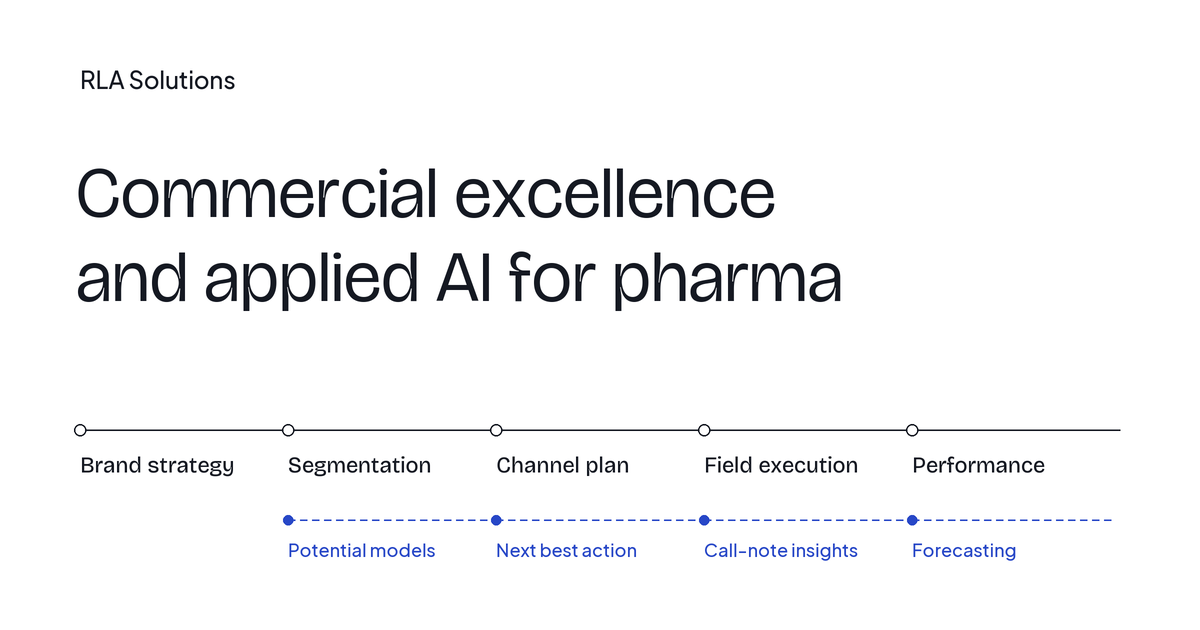
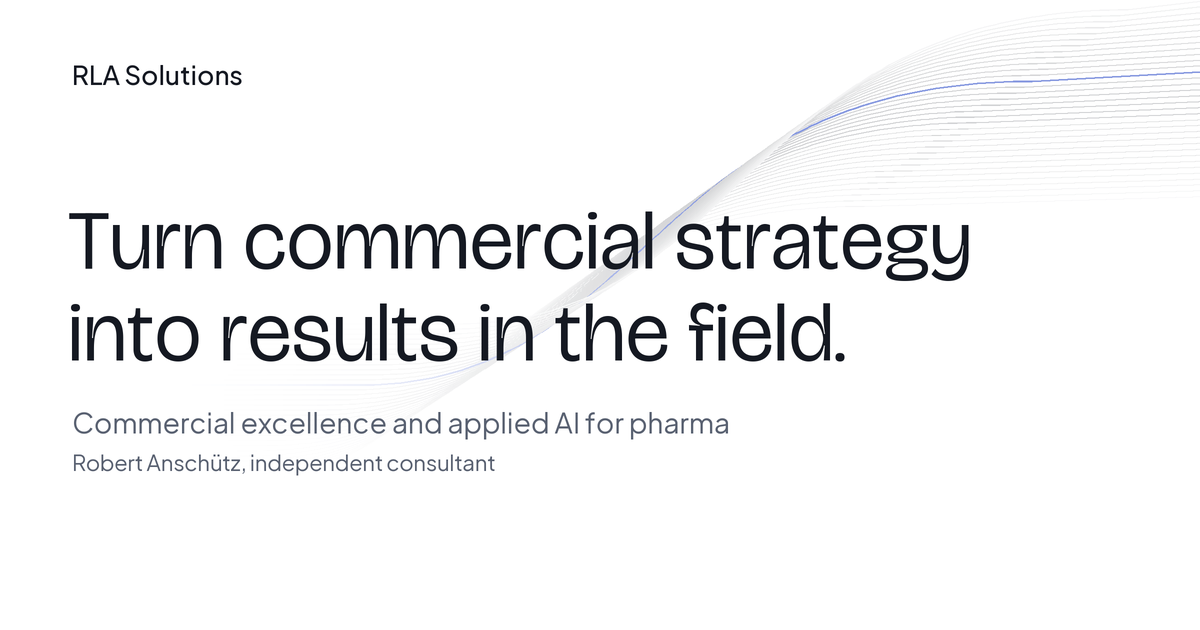
Update LinkedIn preview image to the new hero headline

diff --git a/index.html b/index.html
@@ -12,7 +12,7 @@
   <meta property="og:url" content="https://rla-solutions.com/">
   <meta property="og:title" content="RLA Solutions | Commercial Excellence and AI for Pharma">
   <meta property="og:description" content="Independent consulting for pharma commercial teams: launch, targeting, field force and applied AI.">
-  <meta property="og:image" content="https://rla-solutions.com/assets/og-image.png">
+  <meta property="og:image" content="https://rla-solutions.com/assets/og-image.png?v=2">
   <meta property="og:image:width" content="1200">
   <meta property="og:image:height" content="630">
   <meta property="og:locale" content="en_GB">
@@ -30,7 +30,7 @@
     "@type": "ProfessionalService",
     "name": "RLA Solutions",
     "url": "https://rla-solutions.com/",
-    "image": "https://rla-solutions.com/assets/og-image.png",
+    "image": "https://rla-solutions.com/assets/og-image.png?v=2",
     "description": "Commercial excellence and AI consulting for pharmaceutical companies.",
     "email": "robert.anschuetz@rla-solutions.com",
     "address": {
